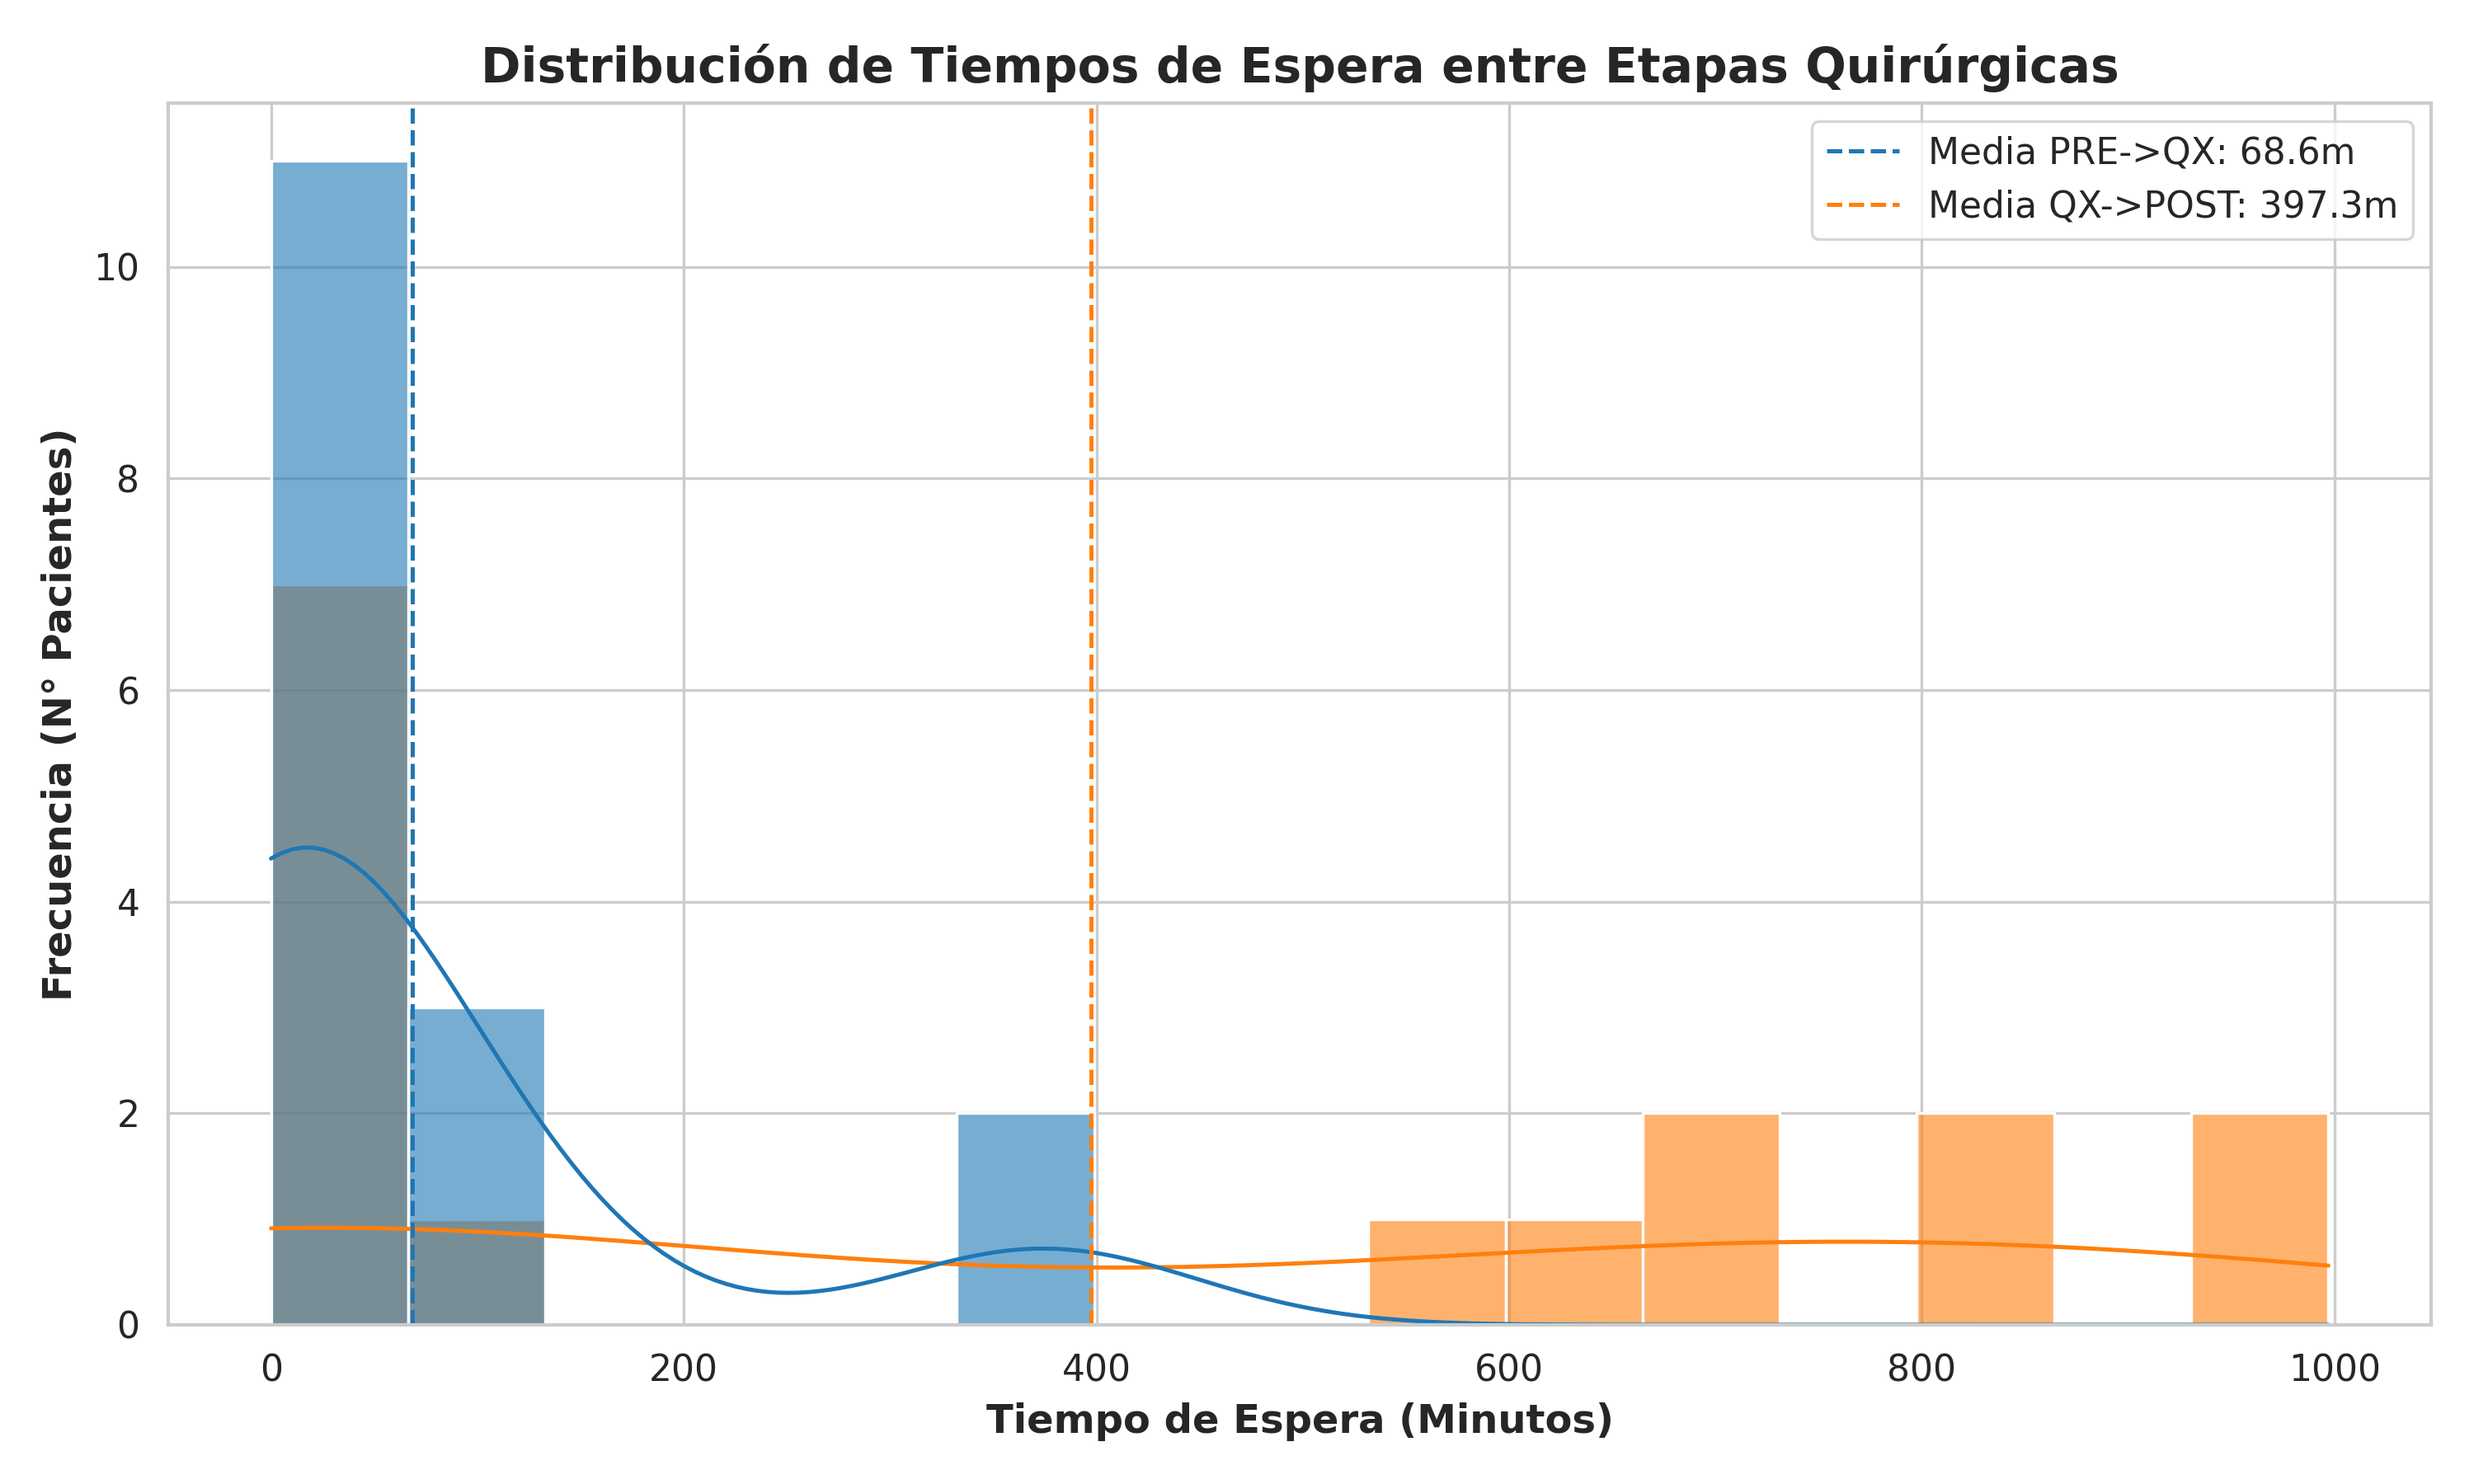
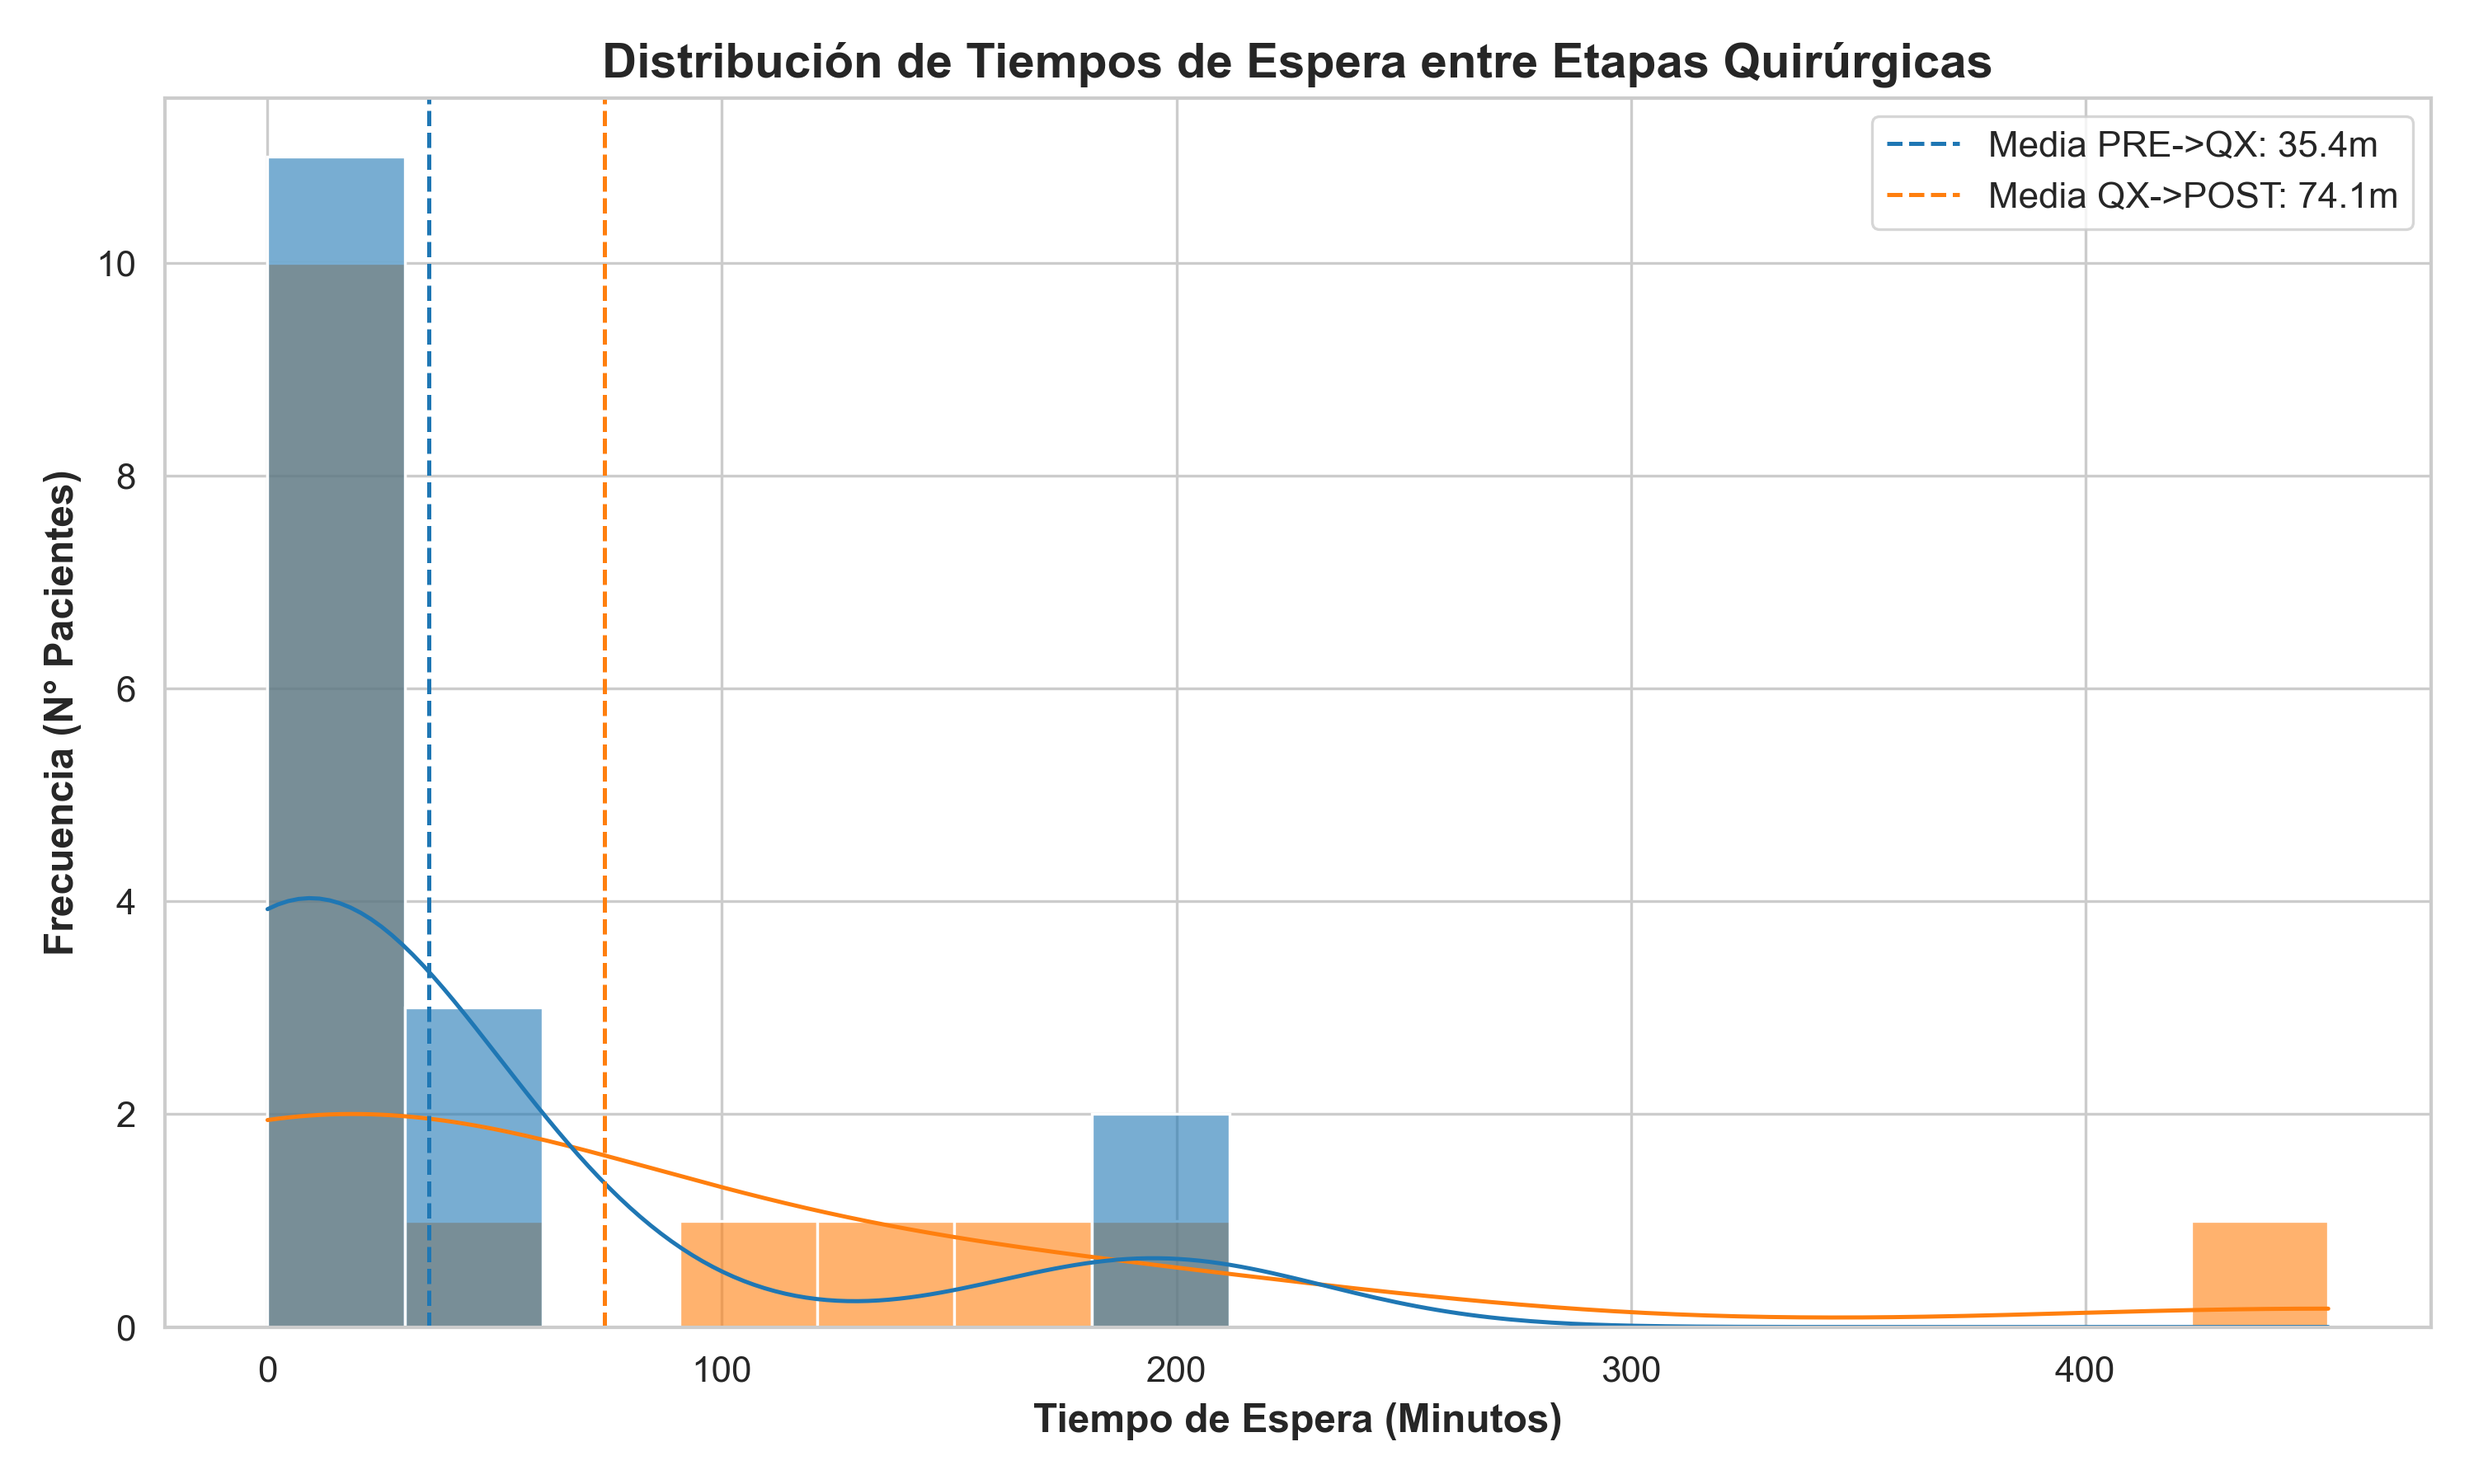
arreglos de data_cleaner

diff --git a/src/data_cleaner.py b/src/data_cleaner.py
@@ -1,0 +1,62 @@
+import pandas as pd
+import numpy as np
+import torch
+
+def clean_clinical_data(df):
+    """
+    Aplica las reglas de negocio clínico (Sanity Checks) y limpia datos nulos.
+    """
+    print("[*] Aplicando limpieza estricta y filtros clínicos...")
+    
+    cols_needed = ['Ingreso Pabellón', 'Inicio Intervención', 'Término Intervención', 
+                   'Ingreso Recuperación', 'Salida Recuperación', 'Tiempo Intervención', 'Tiempo Recuperación']
+    
+    # 1. Filtro de completitud (Registros cerrados)
+    df_clean = df.dropna(subset=cols_needed).copy()
+
+    # 2. Conversión a fechas
+    for col in ['Ingreso Pabellón', 'Inicio Intervención', 'Término Intervención', 'Ingreso Recuperación', 'Salida Recuperación']:
+        df_clean[col] = pd.to_datetime(df_clean[col], errors='coerce')
+        
+    df_clean = df_clean.dropna(subset=['Ingreso Pabellón', 'Inicio Intervención', 'Término Intervención', 'Ingreso Recuperación', 'Salida Recuperación'])
+
+    # 3. Calcular duraciones reales (en minutos)
+    df_clean['dur_pre'] = (df_clean['Inicio Intervención'] - df_clean['Ingreso Pabellón']).dt.total_seconds() / 60.0
+    df_clean['dur_qx'] = df_clean['Tiempo Intervención']
+    df_clean['dur_post'] = df_clean['Tiempo Recuperación']
+
+    # 4. Reglas Clínicas de Bai (Sanity Check)
+    df_clean = df_clean[
+        (df_clean['dur_pre'] > 0) & 
+        (df_clean['dur_qx'] > 0) & 
+        (df_clean['dur_post'] >= 1.0) &      # Mínimo 1 minuto
+        (df_clean['dur_post'] <= 240.0)      # Máximo 4 horas
+    ]
+    
+    print(f"    -> Datos limpios: {len(df_clean)} pacientes sobrevivieron al filtro.")
+    return df_clean
+
+
+def build_daily_tensors(df_clean, target_date, num_samples, buffer_time, device):
+    """
+    Filtra los datos por un día específico y los convierte en tensores para PyTorch.
+    """
+    print(f"[*] Extrayendo datos para el escenario: {target_date}")
+    
+    df_clean['date'] = df_clean['Ingreso Pabellón'].dt.date
+    df_day = df_clean[df_clean['date'] == pd.to_datetime(target_date).date()]
+    df_day = df_day.head(num_samples).reset_index(drop=True)
+
+    if len(df_day) == 0:
+        raise ValueError(f"No hay datos suficientes para la fecha {target_date}.")
+
+    # Construcción de matrices
+    p_time_medical_np = df_day[['dur_pre', 'dur_qx', 'dur_post']].values.astype(np.float32)
+    J, I = p_time_medical_np.shape
+    R = 4  # Capacidad fija de 4 pabellones por etapa
+
+    p_time_medical = torch.tensor(p_time_medical_np, device=device)
+    p_time_occupancy = p_time_medical + buffer_time
+
+    print(f"    -> Tensores listos: {J} pacientes procesados en {I} etapas (R={R}).")
+    return p_time_medical, p_time_occupancy, J, I, R

diff --git a/src/data_loader.py b/src/data_loader.py
@@ -1,43 +1,14 @@
 import pandas as pd
-import numpy as np
-import torch
 
-#Carga y procesa los datos, puedes adjuntarle la fecha que se quiere analizar
-def load_and_preprocess_data(csv_path, device, target_date='2023-02-01', num_samples=16, buffer_time=20.0):
-    print(f"Cargando dataset desde: {csv_path}")
-    df = pd.read_csv(csv_path)
-
-    cols_needed = ['Ingreso Pabellón', 'Inicio Intervención', 'Término Intervención', 
-                   'Ingreso Recuperación', 'Salida Recuperación', 'Tiempo Intervención', 'Tiempo Recuperación']
-    df_clean = df.dropna(subset=cols_needed).copy()
-
-    # Convertir a datetime
-    for col in ['Ingreso Pabellón', 'Inicio Intervención', 'Término Intervención', 'Ingreso Recuperación', 'Salida Recuperación']:
-        df_clean[col] = pd.to_datetime(df_clean[col])
-
-    # Calcular duraciones
-    df_clean['dur_pre'] = (df_clean['Inicio Intervención'] - df_clean['Ingreso Pabellón']).dt.total_seconds() / 60.0
-    df_clean['dur_qx'] = df_clean['Tiempo Intervención']
-    df_clean['dur_post'] = df_clean['Tiempo Recuperación']
-
-    # Filtrar validos
-    df_clean = df_clean[(df_clean['dur_pre'] > 0) & (df_clean['dur_qx'] > 0) & (df_clean['dur_post'] > 0)]
-
-    # Seleccion de dia especifico a simular
-    df_clean['date'] = df_clean['Ingreso Pabellón'].dt.date
-    df_day = df_clean[df_clean['date'] == pd.to_datetime(target_date).date()].head(num_samples).reset_index(drop=True)
-
-    if len(df_day) == 0:
-        raise ValueError(f"No hay datos suficientes para la fecha {target_date}.")
-
-    # Matrices de Tiempos
-    p_time_medical_np = df_day[['dur_pre', 'dur_qx', 'dur_post']].values.astype(np.float32)
-    J, I = p_time_medical_np.shape
-    R = 4  # Capacidad fija de 4 pabellones por etapa
-
-    p_time_medical = torch.tensor(p_time_medical_np, device=device)
-    p_time_occupancy = p_time_medical + buffer_time
-
-    print(f"Dataset listo: {J} pacientes procesados en {I} etapas (R={R}).")
-    print(f"dia analizado con mas carga y duracion de etapas: {df_day["Ingreso Pabellón"].dt.strftime("%d-%m-%y").iloc[0]}")
-    return p_time_medical, p_time_occupancy, J, I, R
+def load_raw_data(csv_path):
+    """
+    Lee el archivo CSV crudo desde el disco.
+    No aplica ninguna limpieza ni regla clínica.
+    """
+    print(f"[*] Cargando dataset crudo desde: {csv_path}")
+    try:
+        df = pd.read_csv(csv_path)
+        print(f"    -> Datos cargados exitosamente: {len(df)} filas originales.")
+        return df
+    except FileNotFoundError:
+        raise FileNotFoundError(f"Error: No se encontró el archivo en {csv_path}")

diff --git a/src/visualization.py b/src/visualization.py
@@ -167,11 +167,11 @@ def generar_estadisticas_bai(csv_path="data/processed/solucion_final_optimizada.
     ax1.set_xlabel("Tiempo de Espera (Minutos)", fontweight='bold')
     ax1.set_ylabel("Frecuencia (N° Pacientes)", fontweight='bold')
     
-    # Líneas de media
-    mean_pre_qx = df_waits[df_waits['Fase'] == 'APR -> OR']['Espera (min)'].mean()
-    mean_qx_post = df_waits[df_waits['Fase'] == 'OT -> ARR']['Espera (min)'].mean()
-    ax1.axvline(mean_pre_qx, color='#1f77b4', linestyle='--', label=f'Media APR->OR: {mean_pre_qx:.1f}m')
-    ax1.axvline(mean_qx_post, color='#ff7f0e', linestyle='--', label=f'Media OR->ARR: {mean_qx_post:.1f}m')
+    # --- CORRECCIÓN AQUÍ: Uso de PRE, QX y POST ---
+    mean_pre_qx = df_waits[df_waits['Fase'] == 'PRE -> QX']['Espera (min)'].mean()
+    mean_qx_post = df_waits[df_waits['Fase'] == 'QX -> POST']['Espera (min)'].mean()
+    ax1.axvline(mean_pre_qx, color='#1f77b4', linestyle='--', label=f'Media PRE->QX: {mean_pre_qx:.1f}m')
+    ax1.axvline(mean_qx_post, color='#ff7f0e', linestyle='--', label=f'Media QX->POST: {mean_qx_post:.1f}m')
     ax1.legend()
     
     plt.tight_layout()
@@ -228,12 +228,12 @@ def generar_estadisticas_bai(csv_path="data/processed/solucion_final_optimizada.
     plt.savefig("data/processed/fig3_boxplot_flow_time.png", dpi=300)
     plt.show()
 
-    # Imprimir resumen de texto
+    # --- CORRECCIÓN AQUÍ: Uso de PRE, QX y POST ---
     print("================ RESUMEN ESTADÍSTICO ================")
     print(f"Makespan Total: {makespan:.2f} min")
-    print(f"Espera Promedio APR -> OR: {mean_pre_qx:.2f} min")
-    print(f"Espera Promedio OR -> ARR: {mean_qx_post:.2f} min")
-    print(f"Utilización Promedio APR: {df_util[df_util['Etapa']=='APR']['Utilización (%)'].mean():.1f}%")
-    print(f"Utilización Promedio OR: {df_util[df_util['Etapa']=='OR']['Utilización (%)'].mean():.1f}%")
-    print(f"Utilización Promedio ARR: {df_util[df_util['Etapa']=='ARR']['Utilización (%)'].mean():.1f}%")
+    print(f"Espera Promedio PRE -> QX: {mean_pre_qx:.2f} min")
+    print(f"Espera Promedio QX -> POST: {mean_qx_post:.2f} min")
+    print(f"Utilización Promedio PRE: {df_util[df_util['Etapa']=='PRE']['Utilización (%)'].mean():.1f}%")
+    print(f"Utilización Promedio QX: {df_util[df_util['Etapa']=='QX']['Utilización (%)'].mean():.1f}%")
+    print(f"Utilización Promedio POST: {df_util[df_util['Etapa']=='POST']['Utilización (%)'].mean():.1f}%")
     print("===================================================================")

diff --git a/main.py b/main.py
@@ -4,7 +4,8 @@ import os
 import random
 import numpy as np
 
-from src.data_loader import load_and_preprocess_data
+from src.data_loader import load_raw_data
+from src.data_cleaner import clean_clinical_data, build_daily_tensors
 from src.model import SchedulePINN
 from src.trainer import train_model
 from src.post_processing import extract_topology, simulated_annealing_optimization, hill_climbing_optimization
@@ -28,8 +29,14 @@ def main():
     raw_csv_path = 'data/raw/2_dataset_procesado_actualizado.csv'
 
     #Cargar Datos
-    print("\n[1/5] Extrayendo datos hospitalarios...")
-    p_medical, p_occupancy, J, I, R = load_and_preprocess_data(raw_csv_path, device)
+    print("\n[1/5] Extrayendo y curando datos hospitalarios...")
+    df = load_raw_data(raw_csv_path)
+    df_clean = clean_clinical_data(df)
+    p_medical, p_occupancy, J, I, R = build_daily_tensors(df_clean, 
+                                                        target_date="2023-02-01", 
+                                                        num_samples=16, 
+                                                        buffer_time=20.0, 
+                                                        device=device)
 
     #Inicializar Modelo
     print("\n[2/5] Inicializando Red Neuronal CINN...")

diff --git a/README.md b/README.md
@@ -60,13 +60,13 @@ CINN-KKT-hospitals/
 
 ### Crear entorno virtual
 ```bash
-python -m venv venv
-source venv/bin/activate  # En Windows: venv\Scripts\activate
+python -m venv .venv
+source .venv/bin/activate  # En Windows: .venv\Scripts\activate
 ```
 
 ### 3. Instalar dependencias
 ```bash
-pip install -r requirements.txt
+python -m pip install -r requirements.txt
 ```
 
 ---
